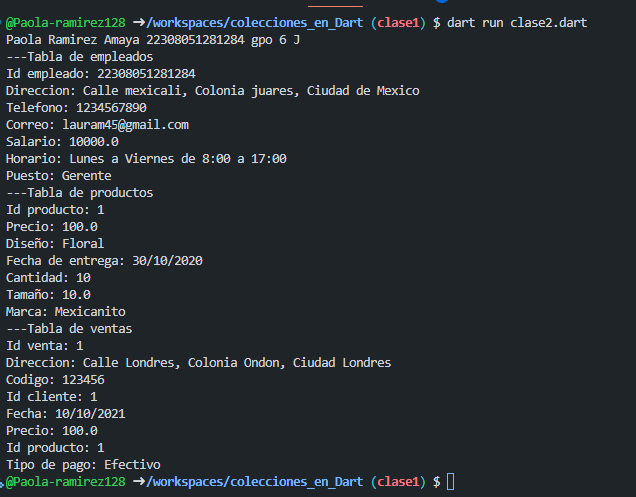
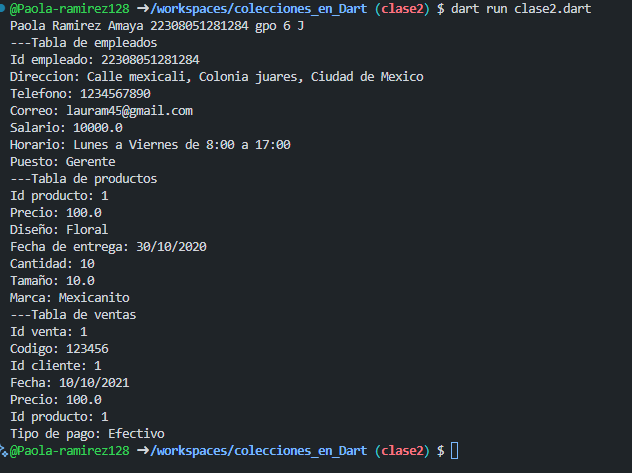
Ejemplo clase2

Changed region(s): [[0.0, 0.0, 0.932, 1.0]]

diff --git a/clase2.dart b/clase2.dart
@@ -65,7 +65,6 @@ class Producto{
 }
 class Venta{
   int id_venta;
-  String direccion;
   int codigo;
   int id_cliente;
   String fecha;
@@ -74,12 +73,11 @@ class Venta{
   String tipo_pago;
 
   //constructor
-  Venta(this.id_venta, this.direccion, this.codigo, this.id_cliente, this.fecha, this.precio, this.id_producto, this.tipo_pago);
+  Venta(this.id_venta, this.codigo, this.id_cliente, this.fecha, this.precio, this.id_producto, this.tipo_pago);
 
   //capturar datos
   void datos(){
     id_venta = 1;
-    direccion = "Calle Londres, Colonia Ondon, Ciudad Londres";
     codigo = 123456;
     id_cliente = 1;
     fecha = "10/10/2021";
@@ -90,7 +88,6 @@ class Venta{
 
   void mostrar(){
     print("Id venta: $id_venta");
-    print("Direccion: $direccion");
     print("Codigo: $codigo");
     print("Id cliente: $id_cliente");
     print("Fecha: $fecha");
@@ -119,7 +116,7 @@ void main(){
 
   print("---Tabla de ventas");
   //crear objeto de la clase venta
-  var venta = new Venta(0, "", 0, 0, "", 0.0, 0, "");
+  var venta = new Venta(0, 0, 0, "", 0.0, 0, "");
   //capturar datos
   venta.datos();
   //Mostrar los atributos del objeto
